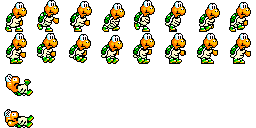
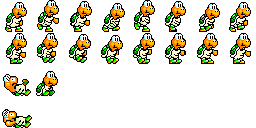
Añadido sprite de agacharse

Changed region(s): [[0.0, 0.5312, 0.25, 0.75], [0.0, 0.8438, 0.1562, 1.0]]

diff --git a/src/Character.cpp b/src/Character.cpp
@@ -276,7 +276,7 @@ void Character::update()
     else if (crouching)
     {
         posture = 2;
-        yPos = 0;
+        yPos = 1;
     }
     else if (walking)
     {
